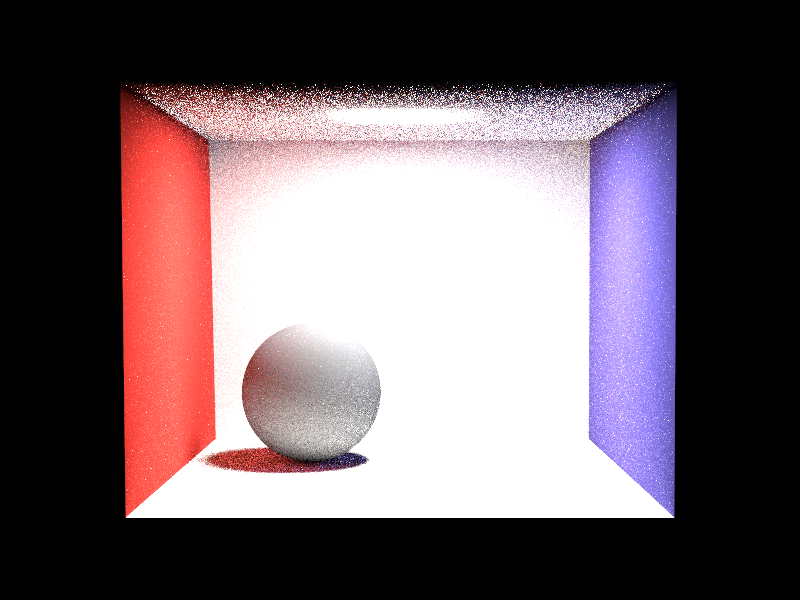
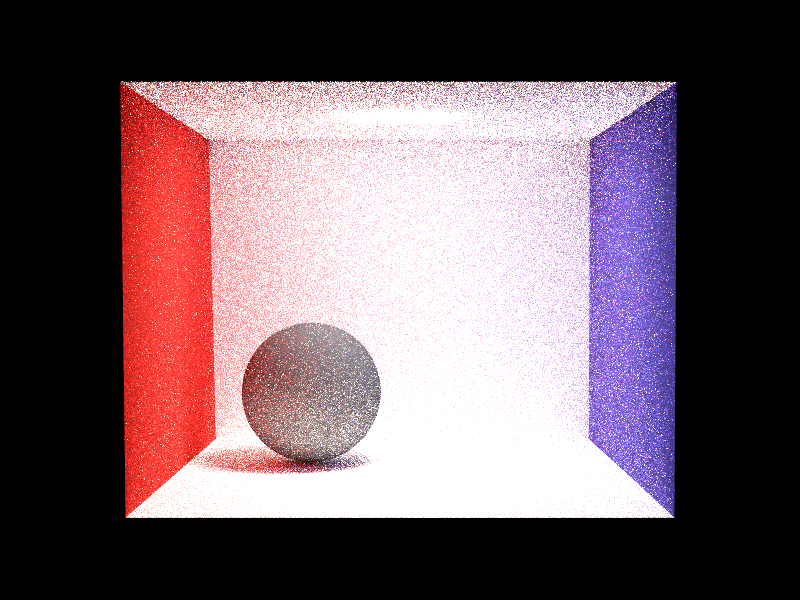
update pt still with bugs

Changed region(s): [[0.125, 0.12, 0.8438, 0.87]]

diff --git a/src/integrators/path.cpp b/src/integrators/path.cpp
@@ -10,8 +10,8 @@ RGBSpectrum PathIntegrator::Li(const Ray & r, const Scene & scene, int depth) {
     Ray ray(r);
 
     int goal = 2;
-
-    for (int bounce = 0;; bounce++) {
+    int bounce = 0;
+    for (bounce = 0;; bounce++) {
         //RGBSpectrum StoreL = L;
         bool FoundIntersect = scene.Intersect(ray, &inter);
 
@@ -39,11 +39,14 @@ RGBSpectrum PathIntegrator::Li(const Ray & r, const Scene & scene, int depth) {
         Float pdf;
         RGBSpectrum f = inter.bxdf->SampleF(wo, &wi, sampler->Get2D(), &pdf);
 
-        if (pdf == 0 || f.IsBlack()) break;
-        beta *= f * AbsDot(wi, inter.n) / pdf;        
+        delete inter.bxdf;
 
         // FIX:
         SpecularBounce = (inter.bxdf->type & BxDF::BSDF_SPECULAR) != 0;
+
+        if (pdf == 0 || f.IsBlack()) break;
+        beta *= f * AbsDot(wi, inter.n) / pdf;        
+
 
         ray = inter.SpawnToRay(wi);
 
@@ -57,7 +60,8 @@ RGBSpectrum PathIntegrator::Li(const Ray & r, const Scene & scene, int depth) {
         //if (bounce != goal) L = StoreL;
     }
 
-    return L;
+    if (bounce == 0) return L;
+    else return L / bounce/2;
 }
 
 
